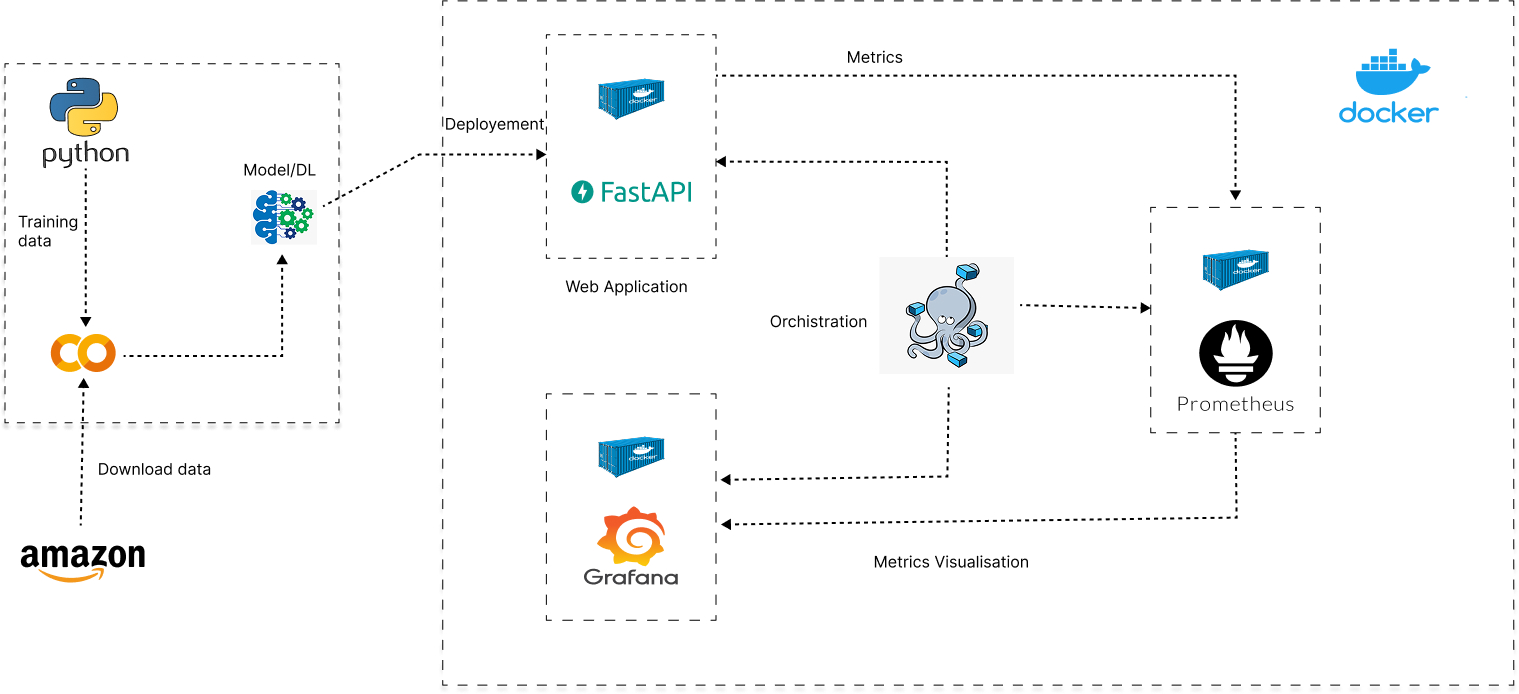
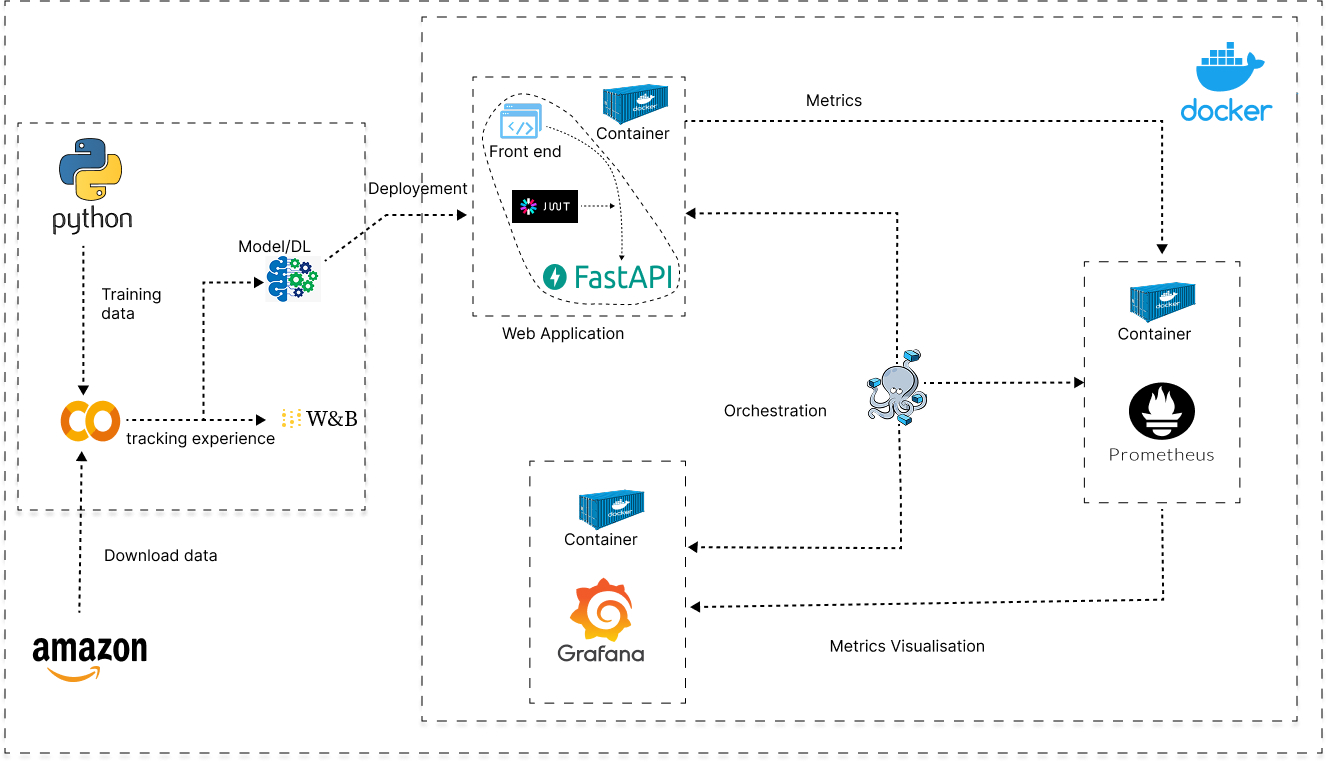
update readme file

diff --git a/README.md b/README.md
@@ -1,13 +1,27 @@
-# Classification de Commentaires - Application Web
+# Classification de Commentaires avec BERT & FastAPI
+
+Ce projet vise à développer une application de classification de commentaires (analyse de sentiments ou modération automatique) en combinant des techniques de NLP avec un modèle BERT, le tout intégré dans une API web via FastAPI. Il intègre également du monitoring via Prometheus, Grafana et Weights & Biases (wandb).
+
+---
+
+## 📌 Objectifs
+
+- Nettoyer et traiter des données de commentaires.
+- Entraîner un modèle de classification basé sur BERT.
+- Déployer une API RESTful pour interagir avec le modèle.
+- Visualiser les résultats et surveiller les performances en temps réel.
+- Assurer la reproductibilité avec DVC, Docker, et wandb.
+
+---
+
+## Architecture du projet
+
+### Schéma visuel
+
+![Architecture du projet](./docs/"Project Architecture".png)
 
 
 Application web permettant de classifier automatiquement les commentaires des utilisateurs comme positifs ou négatifs.
-
-## Fonctionnalités
-
-- Classification automatique des commentaires
-- Interface web pour visualiser les produits et leurs commentaires
-- API REST pour l'intégration avec d'autres systèmes
 
 ## grafana +prometheus
 commande: docker-compose up -d
